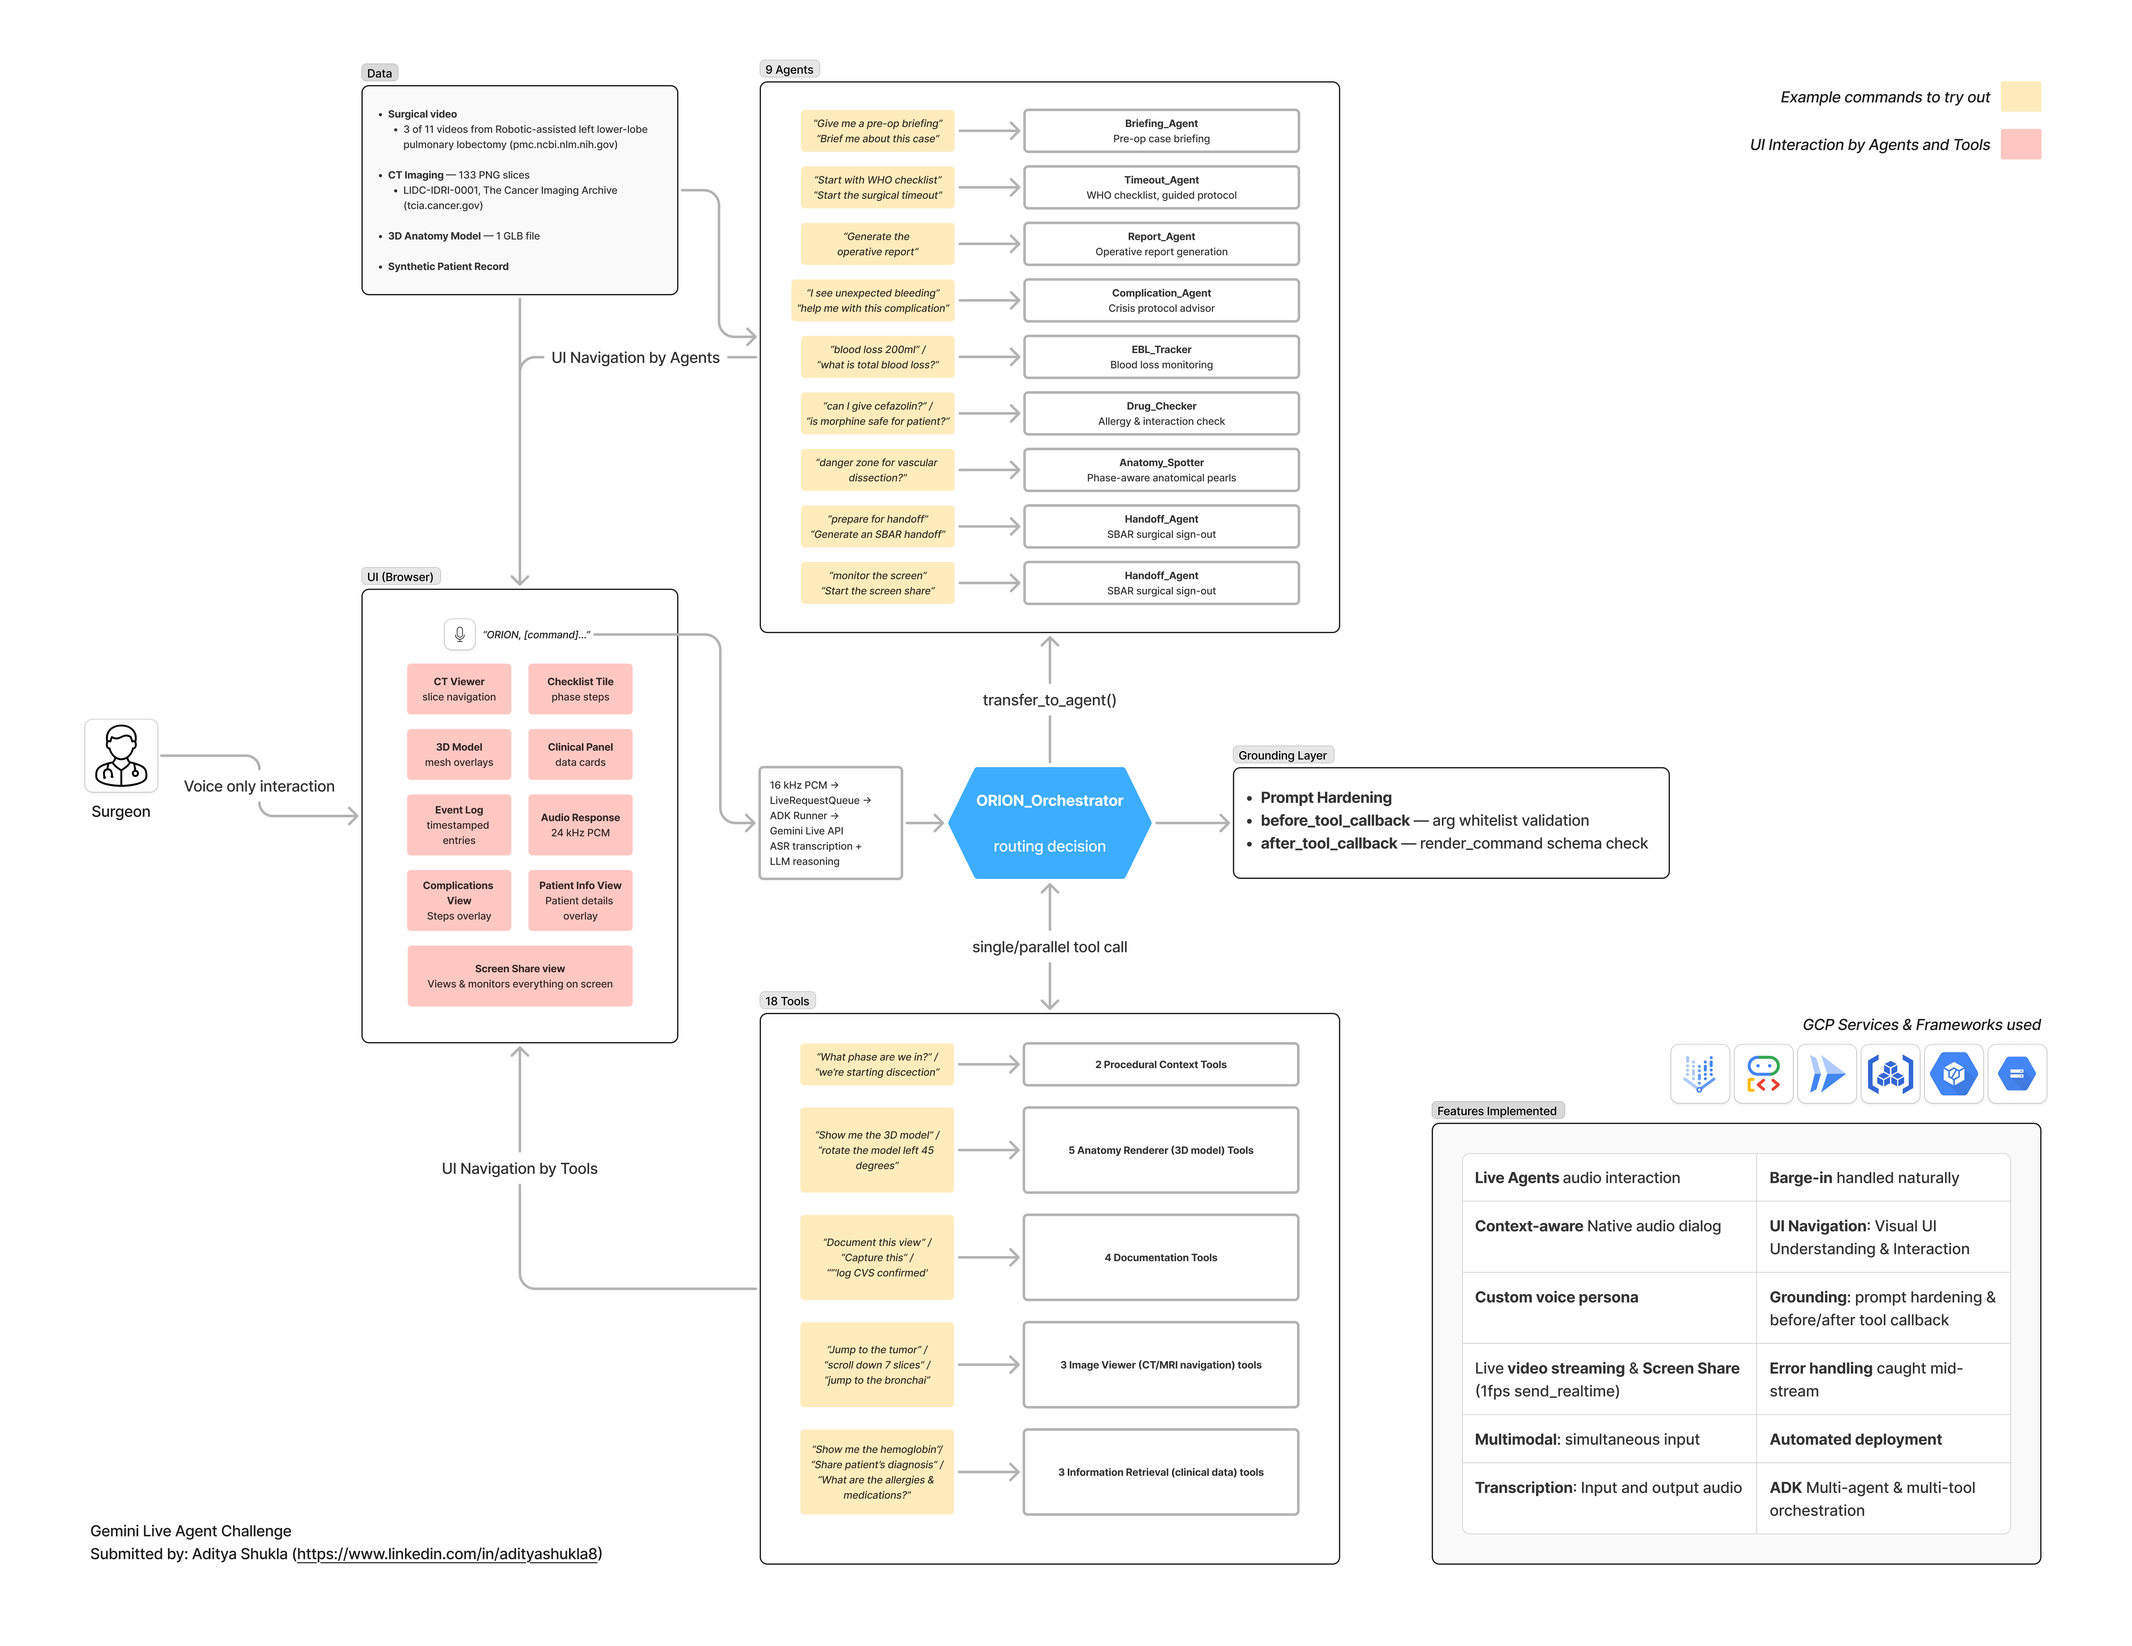
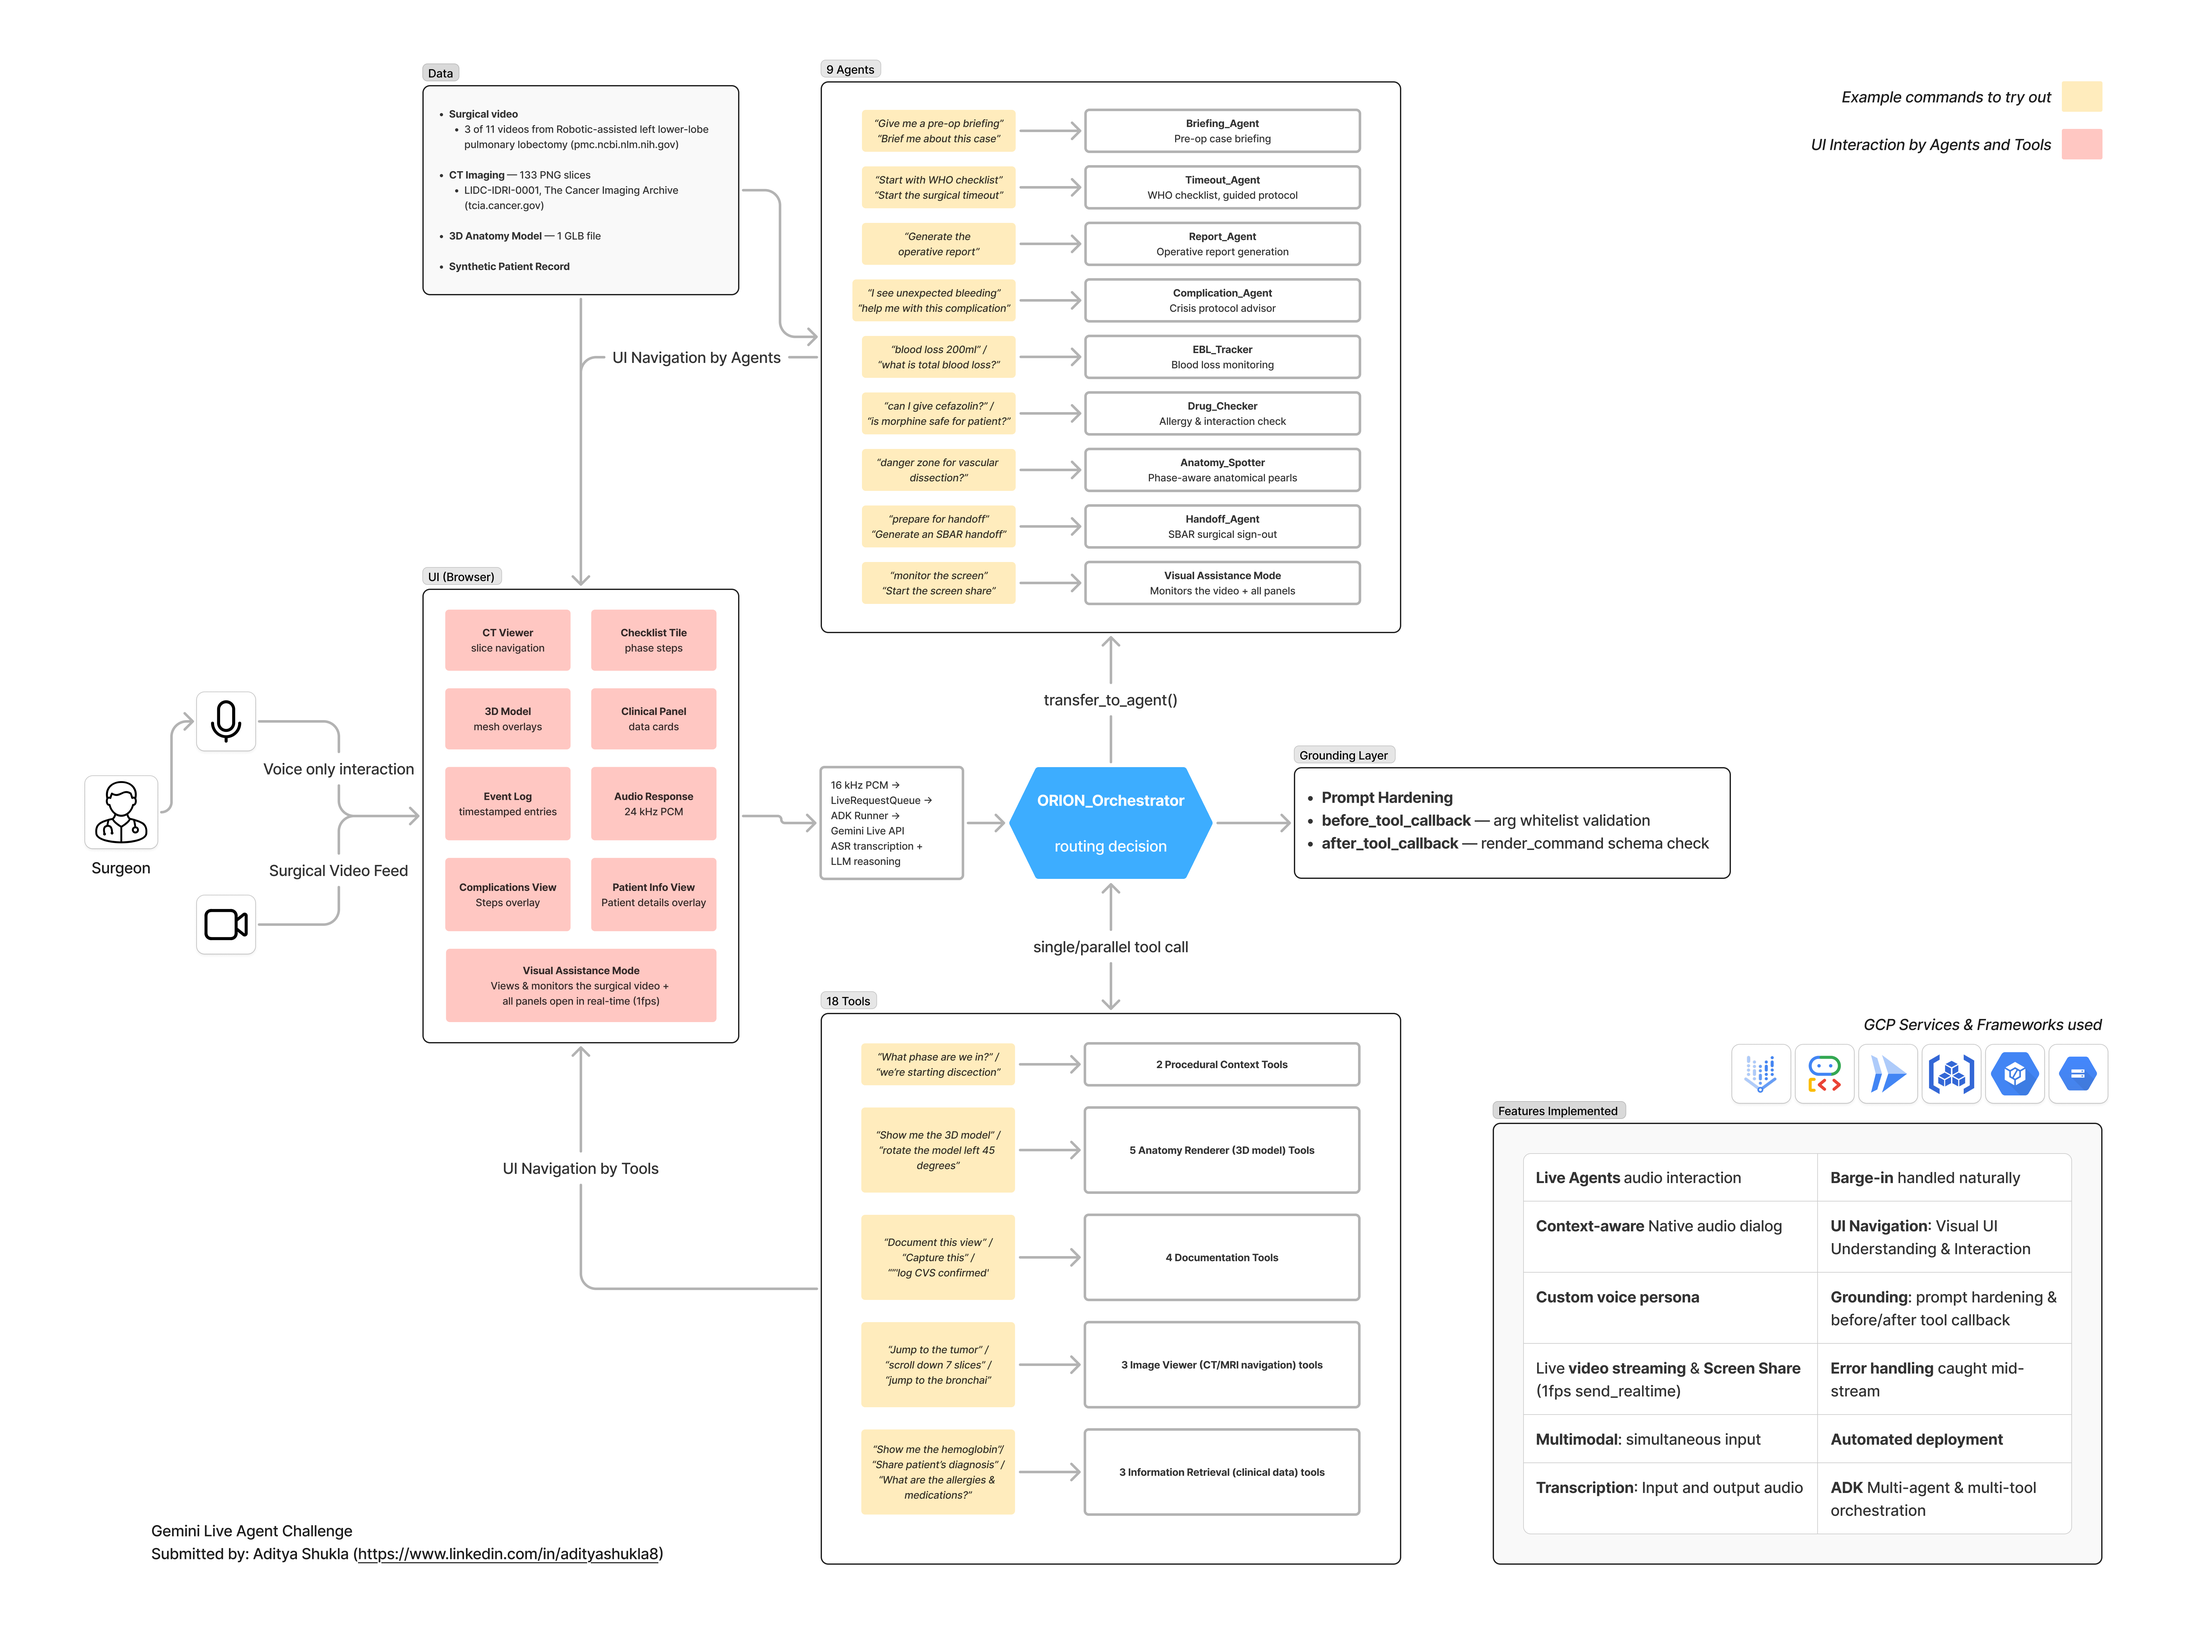
Rename Screen Advisor to Visual Assistant in UI; update arch diagrams
- index.html: display label changed to "Visual Assistant" (data-agent
  attribute unchanged as Screen_Advisor for routing compatibility)
- agent.py: add "Enter visual assistance mode" trigger phrase
- app.js: minor auto-reconnect wording update
- Updated architecture and workflow diagram images

diff --git a/app/static/index.html b/app/static/index.html
@@ -943,7 +943,7 @@
         <div class="orb-blob b2"></div>
         <div class="orb-blob b3"></div>
       </div>
-      <span id="orion-status-label">ORION offline</span>
+      <span id="orion-status-label">ORION offline. Tap to wake.</span>
       <div id="screenshare-badge" title="Screen share active — click to stop">
         <span class="ss-dot"></span>Screen Share
       </div>
@@ -971,7 +971,7 @@
               <div class="agent-chip" data-agent="Anatomy_Spotter">Anatomy Spotter</div>
               <div class="agent-chip" data-agent="Handoff_Agent">Handoff</div>
               <div class="at-section-label agents-row-span" style="margin-top:4px;">Visual Intelligence</div>
-              <div class="agent-chip" data-agent="Screen_Advisor">Screen Advisor</div>
+              <div class="agent-chip" data-agent="Screen_Advisor">Visual Assistant</div>
             </div>
           </div>
 
@@ -1105,7 +1105,7 @@
           },
           Screen_Advisor: {
             label: 'Screen Advisor',
-            cmds: ["ORION, start screen share", "What do you see on my screen?", "Read the lab values on the monitor", "Check the EMR and verify patient data"]
+            cmds: ["ORION, start screen share", "Enter visual assistance mode", "What do you see on my screen?", "Read the lab values on the monitor"]
           },
         },
         tools: {

diff --git a/app/static/js/app.js b/app/static/js/app.js
@@ -633,7 +633,7 @@ function setStatus(state) {
       }, 1600);
       break;
     default: // inactive / offline
-      orionStatusLabel.textContent = 'ORION offline';
+      orionStatusLabel.textContent = 'ORION offline. Tap to wake.';
   }
 }
 

diff --git a/app/orion_orchestrator/agent.py b/app/orion_orchestrator/agent.py
@@ -486,7 +486,7 @@ screen_advisor = LlmAgent(
         'ORION\'s visual intelligence layer. Route here for ANY visual question — '
         'surgical field analysis, phase identification, console/panel description, '
         'or reading external screens (EMR, PACS, lab results). '
-        'Trigger phrases: "what do you see?", "what phase am I in?", '
+        'Trigger phrases: "what do you see?", "what phase am I in?", "Enter visual assistance mode"'
         '"what\'s that structure?", "is there bleeding?", "what panels are open?", '
         '"read the monitor", "check the EMR", "analyze my screen".'
     ),
